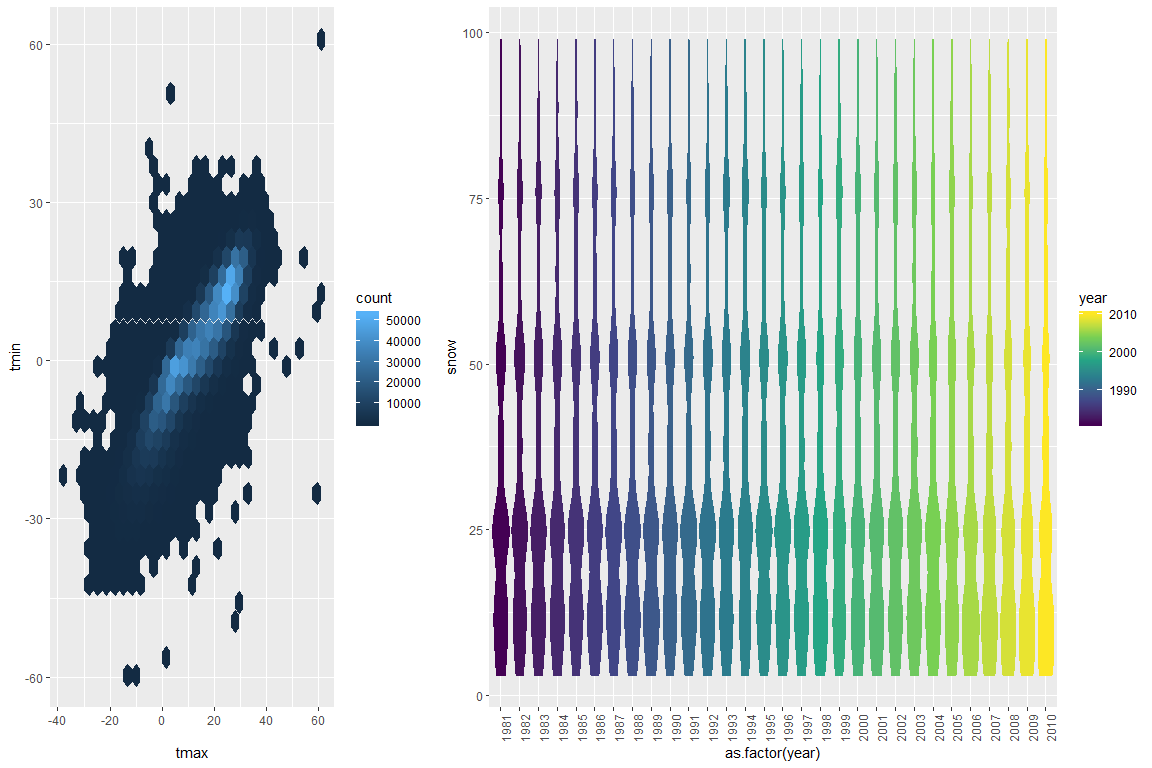
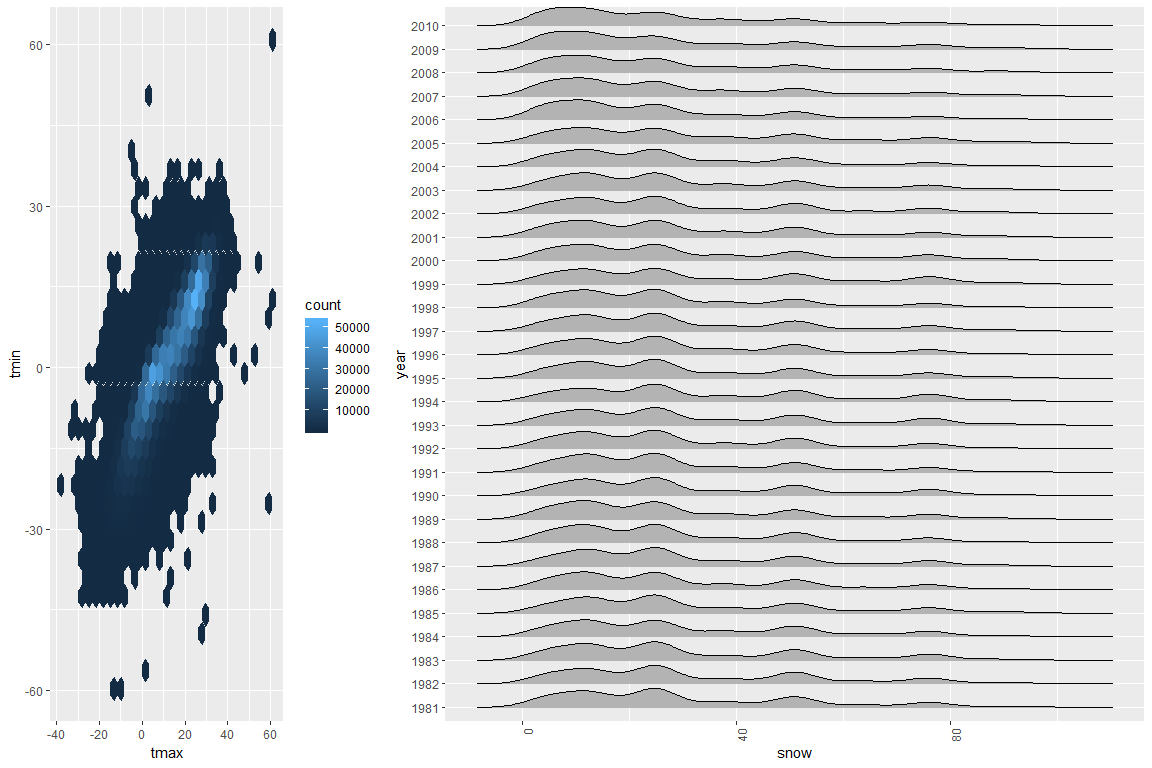
Lots of changes, polishing.

diff --git a/p8105_hw3_jld2227.md b/p8105_hw3_jld2227.md
@@ -9,75 +9,79 @@ First, we'll begin by importing the dataset, cleaning the names to be more appro
 brfss <- p8105.datasets::brfss_smart2010 %>% #Pulls dataframe out of package.
   janitor::clean_names() %>%  #Converts to snake case.
   filter(topic == "Overall Health",
-         response %in% c("Excellent","Very good", "Good", "Fair", "Poor")) %>%     #Filters by overall health topic.
-  mutate(response = recode(response,"Very good" = "Very Good")) %>% 
-  mutate(response = factor(response,levels = c("Excellent","Very Good", "Good", "Fair", "Poor")))
+         response %in% c("Excellent", "Very good", "Good", "Fair", "Poor")) %>%     #Filters by overall health topic.
+  mutate(response = recode(response, "Very good" = "Very Good")) %>%  #fixes a case issue
+  mutate(response = factor(response, levels = c("Excellent","Very Good", "Good", "Fair", "Poor")))
 n_7 <- brfss %>% 
-  filter(year == 2002) %>% 
-  group_by(locationabbr) %>% 
-count(locationabbr) %>% 
-  arrange(-n) %>% 
-filter(n == 7)
+  filter(year == 2002) %>%  #filters by the year 2002
+  group_by(locationabbr) %>%  #groups by state
+summarize(n_locations = n_distinct(locationdesc)) %>% #gets the number of distinct locations in each state. 
+  arrange(-n_locations) %>% #sorts descending by the number of locations. 
+filter(n_locations == 7) %>%  #filters by those that have precisely seven.
+  pull(locationabbr) %>%  #pulls the location column out for printing.
+  paste(.,sep=", ") #adds a comma between the states (converts to single string for printing to the md file).
 ```
 
-"In 2002, which states were observed at 7 locations?"" Clearly, from the table, were observed at exactly 7 locations. had observations at exactly 7 locations in any year. Make a “spaghetti plot” that shows the number of locations in each state from 2002 to 2010."
+"In 2002, which states were observed at 7 locations?"" Clearly, from the table, the following states in 2002 were observed at exactly 7 locations: CT, FL, NC. Make a “spaghetti plot” that shows the number of locations in each state from 2002 to 2010." Now, we'll visualize the number of locations in each state across time for all states with a spaghetti plot (using many lines).
 
 ``` r
-spaghetti <- brfss %>% 
-  filter(year >= 2002 & year <= 2010) %>%
-  group_by(locationabbr,year) %>% 
-  summarise(n = n()) %>% 
-  ggplot(aes(x = year, y = n, color = locationabbr)) +
-  geom_line() + 
-  scale_color_viridis_d(option = "viridis") +
-  labs(x = "Year",y = "Number of locations in each State",
+spaghetti <- brfss %>% #save to spaghetti ggplot object.
+  filter(year >= 2002 & year <= 2010) %>% #filter between 2002 and 2010.
+  group_by(locationabbr,year) %>%  #groups by state and year.
+  summarise(n = n()) %>%  #counts the number of observations meeting the above criteria.
+  ggplot(aes(x = year, y = n, color = locationabbr)) + #creates a plot with year horizontally, the number of stations vertically, and colored by the state.
+  geom_line() + #uses the line geom to create the spaghetti plot.
+  scale_color_viridis_d(option = "viridis") + #applies the viridis pallette using the viridis package (I could have used magma, but this seems to work best for this data).
+  labs(x = "Year",y = "Number of locations in each State", #sets the labels
        color = "State",
        title = "Number of locations in each state, by year, 2002-2010") +
-  theme_dark()
-  #+ geom_text(aes(x=locationabbr)) 
+  theme_dark() #applies the dark theme for contrast.
 print(spaghetti)
 ```
 
 ![](p8105_hw3_jld2227_files/figure-markdown_github/spaghetti_plot-1.png)
 
-"Make a table showing, for the years 2002, 2006, and 2010, the mean and standard deviation of the proportion of “Excellent” responses across locations in NY State." The proportion of the response (in percent) is located in the data\_value column, filtering by 2002,2006,2010, for NY and for Excellent responses only. The proportion therefore can be obtained by dividing by 100, from which point the mean and sd can be taken as summary statistics after grouping.
+Instruction: "Make a table showing, for the years 2002, 2006, and 2010, the mean and standard deviation of the proportion of “Excellent” responses across locations in NY State." The proportion of the response (in percent) is located in the data\_value column, filtering by 2002,2006,2010, for NY and for Excellent responses only. The proportion therefore can be obtained by dividing by 100 (the data\_value\_unit makes it clear that these units are percentages), from which point the mean and sd can be taken as summary statistics after grouping.
 
 ``` r
-statewide_ex_stats <- brfss %>% 
-  filter(year %in% c(2002,2006,2010),
-         locationabbr == "NY",response=="Excellent") %>%
-  group_by(locationabbr,year) %>% 
+statewide_ex_stats <- brfss %>% #Grabs the brfss object.
+  filter(year %in% c(2002,2006,2010), #Filters for 2002,2006, and 2010.
+         locationabbr == "NY",response=="Excellent") %>% #filter for NY and Ex
+  group_by(locationabbr,year) %>% #Groups by state and year.
   summarize(ex_sd_prop = 
   sd(data_value/100),
-  ex_mean_prop = mean(data_value/100))  %>% 
-    select(year,locationabbr,ex_sd_prop,ex_mean_prop)
-statewide_ex_stats
+  ex_mean_prop = mean(data_value/100))  %>% #calculates the mean and sd of the responses.
+    select(year,locationabbr,ex_sd_prop,ex_mean_prop) #removes all other columns but those of interest in the question.
+statewide_ex_stats %>% kable() #shows the table.
 ```
 
-A tibble: 3 x 4
-===============
+|  year| locationabbr |  ex\_sd\_prop|  ex\_mean\_prop|
+|-----:|:-------------|-------------:|---------------:|
+|  2002| NY           |     0.0448642|       0.2404000|
+|  2006| NY           |     0.0400083|       0.2253333|
+|  2010| NY           |     0.0356721|       0.2270000|
 
-Groups: locationabbr \[1\]
-==========================
-
-year locationabbr ex\_sd\_prop ex\_mean\_prop <int> <chr> <dbl> <dbl> 1 2002 NY 0.0449 0.240 2 2006 NY 0.0400 0.225 3 2010 NY 0.0357 0.227
-
-"For each year and state, compute the average proportion in each response category (taking the average across locations in a state). Make a five-panel plot that shows, for each response category separately, the distribution of these state-level averages over time."
+"For each year and state, compute the average proportion in each response category (taking the average across locations in a state). Make a five-panel plot that shows, for each response category separately, the distribution of these state-level averages over time." Now, we'll get the average response proportion in each response category and create a plot for each category over time (time horizontal, state level average vertical). I've chosen geom\_point with the ggrepel package for variety and because it spaces out text labels specifically to avoid overlap (a common problem with geom\_text).
 
 ``` r
 brfss %>% 
-  group_by(locationabbr,response,year) %>%
+  group_by(locationabbr,response,year) %>% #groups by state, response (e.g. excellent), and year.
     summarize(sd_prop = 
   sd(data_value/100,na.rm = T),
-  mean_prop = mean(data_value/100,na.rm = T)) %>% 
-  ggplot(aes(x=year,y=mean_prop,facet=response,color=response,fill=response)) +
-  geom_violin() + geom_point(alpha = 0.3) +
-  scale_color_viridis_d(option = "magma") +
-  scale_fill_viridis_d(option = "viridis") +
-  facet_grid(.~response)
+  mean_prop = mean(data_value/100,na.rm = T)) %>%  #calculate mean and sd, removing missing values.
+  ggplot(aes(x=year,y=mean_prop,facet=response,color=response,fill=response)) + #Sets mappings
+  geom_violin() + #adds a violin geom.
+  geom_point(alpha = 0.3) + #adds points.
+  scale_color_viridis_d(option = "magma") + #adds the viridis magma color  for outlines.
+  scale_fill_viridis_d(option = "viridis") + #adds the standard viridis color fill
+  facet_grid(.~response) #create a plot for every response (Excellent to Poor)
 ```
 
 ![](p8105_hw3_jld2227_files/figure-markdown_github/unnamed-chunk-1-1.png)
+
+``` r
+ #please note the final figures widths have been increased for readability.
+```
 
 Problem 2
 =========
@@ -85,7 +89,21 @@ Problem 2
 ``` r
 instacart <- p8105.datasets::instacart %>% #Pulls dataframe out of package.
   janitor::clean_names() #cleans names
+n_distinct_prod <- instacart %>% #gets the number of distinct products, aisles, and users.
+  select(product_name) %>% 
+  summarize(nprod = n_distinct(product_name)) %>% 
+  pull(nprod)
+n_aisles <- instacart %>%
+  select(aisle) %>%
+  summarize(naisle = n_distinct(aisle)) %>% 
+  pull(naisle)
+n_cust <- instacart %>%
+  select(user_id) %>%
+  summarize(ncust = n_distinct(user_id)) %>% 
+  pull(ncust)
 ```
+
+As noted in the description, the instacart dataset is a subset of purchase information by instacart customers and includes the items purchased along with time/date information. It contains 1384617 observations and 15 variables. Key variables include product name, with 39123 unique observations for all the products that have been ordered on instacart, found in 134, ordered by a whopping 131209 customers. The average time between orders of 17.0661259 and median 15 suggests that most customers use instacart as an infrequent service, approximately twice per month. The mean hour of the day of 13.5775922 in 24h time suggests that many customers tend to use the service later in the day rather than a morning service.
 
 ``` r
 distinct_aisles <- instacart %>%
@@ -113,40 +131,32 @@ distinct_aisles %>%
 | packaged cheese               |   41699|
 | water seltzer sparkling water |   36617|
 
-``` r
-distinct_aisles %>% pull(aisle) %>% .[1]
-```
-
-    ## [1] "fresh vegetables"
-
-The numbers of items in each aisle can be visualized with the following plot. The number of aisles is 134, making it difficult to label all of the data (although key data is properly labeled in the table above). The previous table shows that fresh vegetables and fresh fruits are the outliers near 15000, with packaged vegetables fruits at roughly half the magnitude. The top 5 items are labeled, matching the prior table.
+The the top aisle, by count, is fresh vegetables. The numbers of items in each aisle can be visualized with the following plot. The number of aisles is 134, making it difficult to label all of the data (although key data is properly labeled in the table above). The previous table shows that fresh vegetables and fresh fruits are the outliers near 15000, with packaged vegetables fruits at roughly half the magnitude. The top 5 items are labeled, matching the prior table.
 
 ``` r
 items_by_aisle <- instacart %>%
   group_by(aisle) %>% 
 count() %>% 
   arrange(
-    desc(n)
+    desc(n) #arranges the aisles by item count, with the top count items listed first.
     ) %>%
 as.data.frame() %>% #makes the grouping variable modifyable 
   as.tibble() %>%  #factor reorder.
   mutate(aisle = forcats::fct_reorder(aisle, n))
 
-library(ggrepel)
+library(ggrepel) # a library built to stop text from overlapping with geom_text
 items_by_aisle %>% 
   ggplot(aes(x = aisle,y = n,fill = n)) + #establishes mappings.
   geom_col() + #like geom_bar, but takes a variable for height.
-#  scale_fill_viridis_c() +
   scale_fill_viridis_c() + #adds color
   scale_y_continuous(expand = c(0,0)) + #removes whitespace at bottom.
-  #scale_x_discrete(breaks=levels(items_by_aisle$aisle)[c(130,134)]) + #labels=items_by_aisle$aisle[c(130,134)],
    theme_bw() +
   geom_text_repel(data = items_by_aisle %>% head(n=5),aes(label = aisle,color = NULL)) +
-  theme(#axis.title.x = element_blank(), #removes panel grid at back.
+  theme(
         axis.text.x = element_blank(),
         axis.ticks.x = element_blank(),
         panel.grid.major = element_blank(),
-        panel.grid.minor = element_blank()) +
+        panel.grid.minor = element_blank()) +  #removes panel grid at back.
   labs(x = "aisles, sorted by number of items",
          y = "Items in aisle",
        fill = "Items in aisle",
@@ -178,25 +188,25 @@ count(product_name) %>%
     ## 2 Light Brown Sugar                            499 baking ingredients     
     ## 3 Snack Sticks Chicken & Rice Recipe Dog Tr~    30 dog food care
 
-Instruction"Make a table showing the mean hour of the day at which Pink Lady Apples and Coffee Ice Cream are ordered on each day of the week; format this table for human readers (i.e. produce a 2 x 7 table)." Now, we'll show the mean hour of the day at which the items are ordered.
+Instruction: "Make a table showing the mean hour of the day at which Pink Lady Apples and Coffee Ice Cream are ordered on each day of the week; format this table for human readers (i.e. produce a 2 x 7 table)." To display an example of the ability to see when particular items are ordered by time, comparatively, we'll show the mean hour of the day at which the items are ordered.
 
 ``` r
 pink_ice_tbl<-instacart %>% 
-  filter(product_name %in% c("Pink Lady Apples","Coffee Ice Cream")) %>% 
-  group_by(product_name,order_dow) %>% 
-  summarize(mean_hour=mean(order_hour_of_day)) %>% 
-  spread(key=product_name,value=,mean_hour) %>% 
-mutate(order_dow = recode(.$order_dow,"0" = "Sunday",
+  filter(product_name %in% c("Pink Lady Apples","Coffee Ice Cream")) %>%  #filter for the two items of interest
+  group_by(product_name,order_dow) %>%  #group by item and day of week
+  summarize(mean_hour=mean(order_hour_of_day)) %>%  #get the mean hour by item and day of week.
+  spread(key=product_name,value=,mean_hour) %>%  #convert long to wide for human viewing.
+mutate(order_dow = recode(.$order_dow,"0" = "Sunday", #convert number days to word days for human viewing.
                              "1" = "Monday",
                              "2" = "Tuesday",
                              "3" = "Wednesday",
                              "4" = "Thursday",
                              "5" = "Friday",
                              "6" = "Saturday")) %>% 
-  janitor::clean_names() %>% 
+  janitor::clean_names() %>% #cleans the names once more as new columns have been added which are not snake case.
   select(order_dow,
          coffee_ice_cream,
-         pink_lady_apples)
+         pink_lady_apples) #select just the columns needed
 pink_ice_tbl
 ```
 
@@ -237,77 +247,81 @@ A quick look across the column shows that there is significant missing data (whi
 Instruction: "Do some data cleaning. Create separate variables for year, month, and day. Ensure observations for temperature, precipitation, and snowfall are given in reasonable units. For snowfall, what are the most commonly observed values? Why? Make a two-panel plot showing the average max temperature in January and in July in each station across years. Is there any observable / interpretable structure? Any outliers?"
 
 ``` r
-noaa_clean <- p8105.datasets::ny_noaa %>% 
-  as.tibble() %>% 
-  janitor::clean_names() %>% 
-mutate(day = lubridate::day(noaa$date),
+noaa_clean <- p8105.datasets::ny_noaa %>% #Pull in the data.
+  as.tibble() %>%  #convert to tibble format.
+  janitor::clean_names() %>%  #convert to snake case.
+mutate(day = lubridate::day(noaa$date), #create day, month, and year variables.
        month = lubridate::month(noaa$date),
        year = lubridate::year(noaa$date),
-       tmax = as.numeric(tmax)/10,
+       tmax = as.numeric(tmax)/10, #convert tmax and tmin to numeric type and correct to comparable units of degrees celcius (rather than tenths of degrees)
        tmin = as.numeric(tmin)/10,
-       prcp = as.numeric(prcp)/10,
+       prcp = as.numeric(prcp)/10, #corrects the precipitation to be in milimeters rather than tenths of a mililiter
        snow = as.numeric(snow),
        snwd = as.numeric(snwd)) 
 #most common values for snowfall
-common_snow_vals <- noaa_clean %>% 
+common_snow_vals <- noaa_clean %>%  #grabs the most common values for snowfall
   count(snow) %>% 
-  arrange(-n)
+  arrange(-n) #in descending order.
 common_vals_string <- common_snow_vals %>%
   pull(snow) %>%
   head() %>%
-  paste(sep = ',')
+  paste(sep = ',') #converts to a string format for inline printing.
 ```
 
 The five most common values include: 0, NA, 25, 13, 51, 76. The reason for the large amount of snowfall missing is due to the fact that stations only record a subset of the variables and the reason there are are many days with zero is likely because there are many days in the year in new york with zero snowfall (particularly in the summer, spring and fall months).
 
 ``` r
 mtmax_plot_d<-noaa_clean %>% 
-  filter(month %in% c(1,7)) %>%
-  mutate(month = recode(month, "1" = "January", "7" = "July")) %>% 
-  group_by(year,month) %>%
-  summarize(mean_tmax = mean(tmax,na.rm = TRUE)) %>% 
-  arrange(-mean_tmax)
-  ggplot(data=mtmax_plot_d,aes(x=year,y=mean_tmax,facet=month)) +
-    geom_point(alpha = 0.3) + 
+  filter(month %in% c(1,7)) %>% #Filters for january and july.
+  mutate(month = recode(month, "1" = "January", "7" = "July")) %>% #Converts month numbers to human readable names for the plot.
+  group_by(year,month) %>% #groups by year and month
+  summarize(mean_tmax = mean(tmax,na.rm = TRUE)) %>%  #gets the mean
+  arrange(-mean_tmax) #sorts descending by the mean
+  ggplot(data=mtmax_plot_d,aes(x=year,y=mean_tmax, #creates a new plot with year across the horizontal axis and the mean max temperature vertically.
+                               facet=month)) + #A separate plot is created for each month.
+    geom_point(alpha = 0.3) + #Set the plot to have transparent points as the means of plotting.
   geom_text_repel(#data=head(mtmax_plot_d,n=2),
     aes(label = year
                        # paste(year,format(mean_tmax,digits=3),sep=",") 
-           ), size = 2) +
-  facet_grid(.~month) +
-  labs(x = "Year",y = "Mean temperature")
+           ), size = 2) + #adds text labels that try not to overlap (thanks to ggrepel) and makes their size small enough so they do not overlap as well.
+  facet_grid(.~month) + #arranges the different month plots in a grid format.
+  labs(x = "Year",y = "Mean temperature Maximum, (deg C)",title="Mean temperature maximum, by Year") #sets the labels
 ```
 
-![](p8105_hw3_jld2227_files/figure-markdown_github/two_panel_avg_max_temp-1.png)
-
-``` r
-# noaa_clean %>% 
-#   filter(month %in% c(1,7)) %>%
-#   mutate(month = recode(month, "1" = "January", "7" = "July")) %>% 
-#   group_by(year,month) %>%
-#   ggplot(aes(x=year,y=tmax,facet=month,z=mean(tmax))) +
-#     stat_summary_hex(fun = mean) +
-#   facet_grid(.~month) +
-#   labs(x="Year",y="Mean temperature")
-```
-
-Observable structure: There appears to be an increasing variability over time in the January temperatures with a definite outlier at 1990. There was a year that was one of the most cold on record the year before (another outlier). The july temperatures appear to be fairly regular with the exception of 1993. Outliers: 1990 for January (high). 2009 for July (low). 1992 for July (low). 2006 for January (high).
+![](p8105_hw3_jld2227_files/figure-markdown_github/two_panel_avg_max_temp-1.png) Observable structure: There appears to be an increasing variability over time in the January temperatures with a definite outlier at 1990. There was a year that was one of the most cold on record the year before (another outlier). The july temperatures appear to be fairly regular with the exception of 1993. Outliers: 1990 for January (high). 2009 for July (low). 1992 for July (low). 2006 for January (high).
 
 "Make a two-panel plot showing (i) tmax vs tmin for the full dataset (note that a scatterplot may not be the best option); and (ii) make a plot showing the distribution of snowfall values greater than 0 and less than 100 separately by year."
 
 ``` r
 library(patchwork)
+library(ggridges)
+```
+
+    ## 
+    ## Attaching package: 'ggridges'
+
+    ## The following object is masked from 'package:ggplot2':
+    ## 
+    ##     scale_discrete_manual
+
+``` r
 tmaxmin_hex <- noaa_clean %>% 
   ggplot(aes(x=tmax,y=tmin)) + geom_hex()
 snow_year_dist <- noaa_clean %>% 
   filter(snow > 0 & snow < 100) %>% 
-    ggplot(aes(x=as.factor(year),y=snow,color=year,fill=year)) +
-  geom_violin() +
+    ggplot(aes(x=snow,y=year,color=snow,fill=snow)) + 
+  geom_density_ridges_gradient(scale=0.85,gradient_lwd = .1,
+                               aes(x=snow,y=as.factor(year),fill=snow)) +
   scale_color_viridis_c() +
     scale_fill_viridis_c() +
   theme(axis.text.x = element_text(angle = 90, hjust = 1))
-tmaxmin_hex + snow_year_dist + plot_layout(ncol=2,widths=c(1,2))
+tmaxmin_hex + snow_year_dist + plot_layout(ncol=2,widths=c(1,3))
 ```
 
     ## Warning: Removed 1136276 rows containing non-finite values (stat_binhex).
 
+    ## Picking joint bandwidth of 3.76
+
 ![](p8105_hw3_jld2227_files/figure-markdown_github/unnamed-chunk-5-1.png)
+
+Geom\_hex shows localized 2d peaks (high numbers of counts) near 20 and 0 degrees celcius for tmax and tmin. The snowfall distribution plot at right suggests very regular trends, but that snowfall has clusters of regions that have roughly 15, 20, 50, and 80 inches of snowfall per year. This suggests that many stations have similar snowfall patterns and that the yearly trends do not seem to drastically change year to year.
